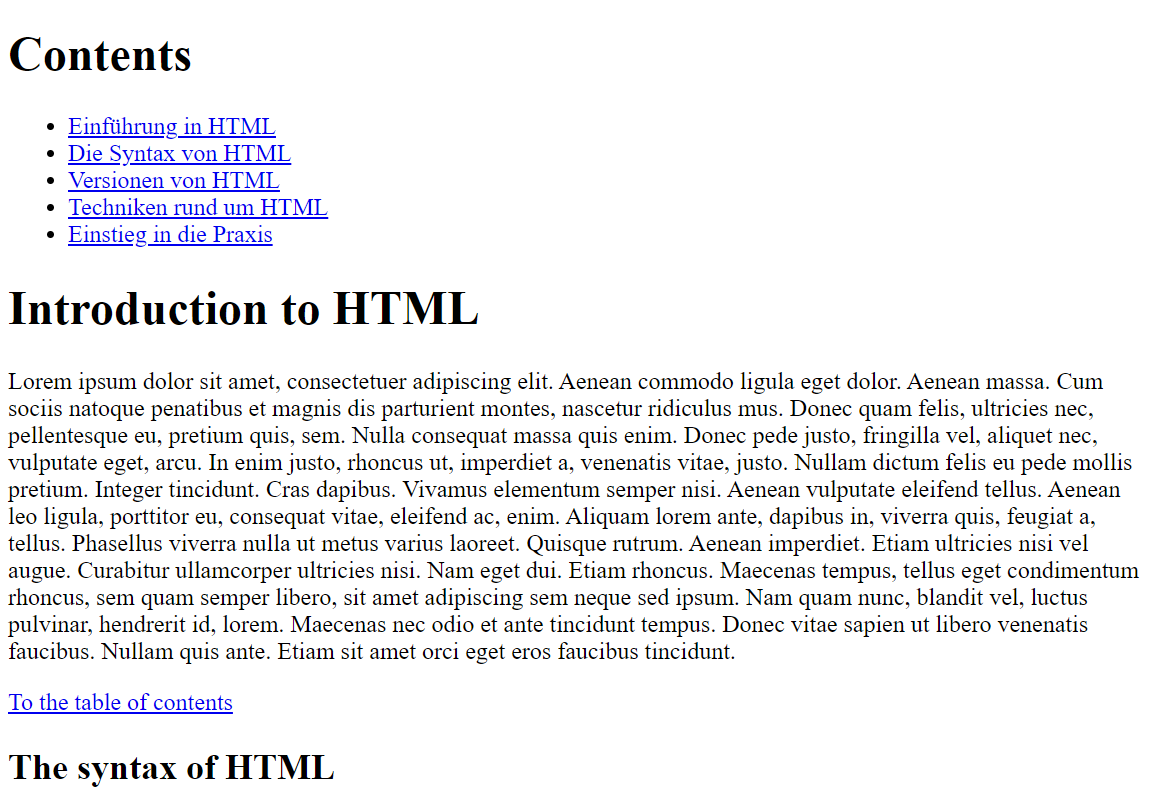
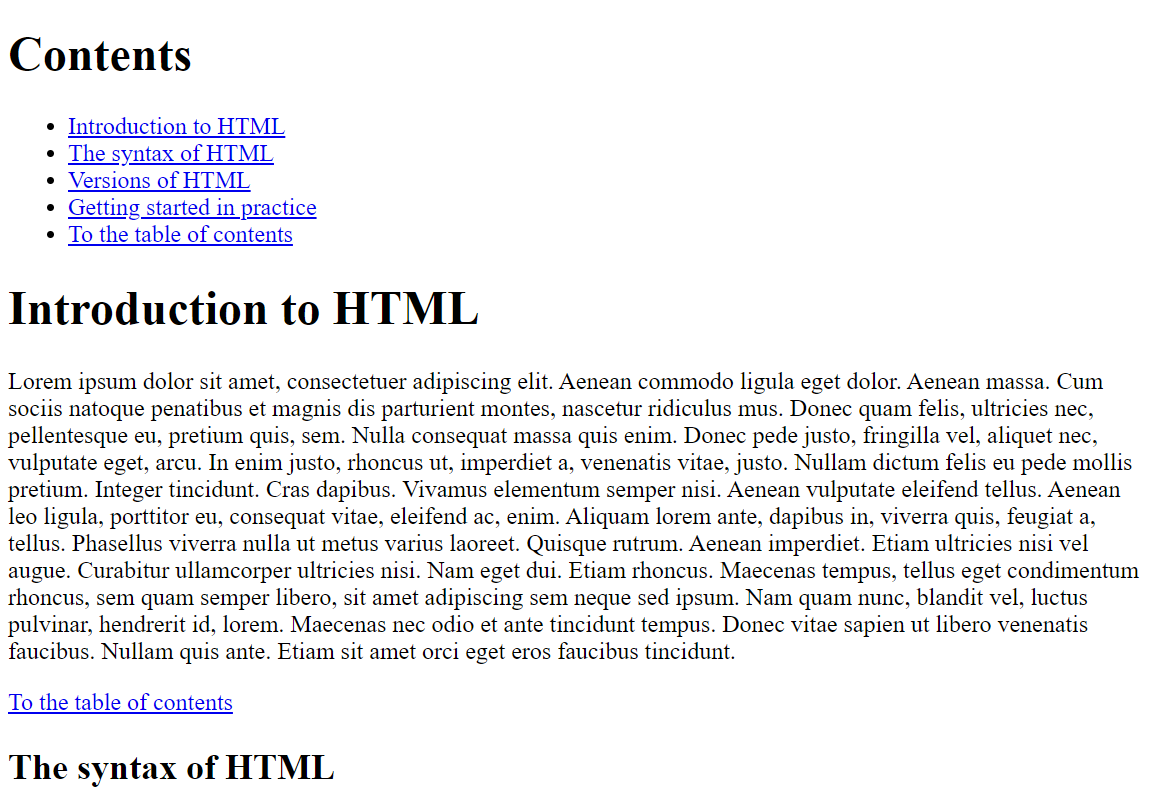
UD 5.2.

diff --git a/5_Tables_Hyperlinks/Part_11/index.html b/5_Tables_Hyperlinks/Part_11/index.html
@@ -7,11 +7,11 @@
   <body>
   <h1 id="top">Contents</h1>
   <ul>
-    <li><a href="#intro">Einführung in HTML</a></li>
-    <li><a href="#syntax">Die Syntax von HTML</a></li>
-    <li><a href="#versions">Versionen von HTML</a></li>
-    <li><a href="#technics">Techniken rund um HTML</a></li>
-    <li><a href="#practice">Einstieg in die Praxis</a></li>
+    <li><a href="#intro">Introduction to HTML</a></li>
+    <li><a href="#syntax">The syntax of HTML</a></li>
+    <li><a href="#versions">Versions of HTML</a></li>
+    <li><a href="#technics">Getting started in practice</a></li>
+    <li><a href="#practice">To the table of contents</a></li>
   </ul>
   <h1 id="intro">Introduction to HTML</h1>
   <p>Lorem ipsum dolor sit amet, consectetuer adipiscing elit. Aenean commodo ligula eget dolor. Aenean massa. Cum sociis natoque penatibus et magnis dis parturient montes, nascetur ridiculus mus. Donec quam felis, ultricies nec, pellentesque eu, pretium quis, sem. Nulla consequat massa quis enim. Donec pede justo, fringilla vel, aliquet nec, vulputate eget, arcu. In enim justo, rhoncus ut, imperdiet a, venenatis vitae, justo. Nullam dictum felis eu pede mollis pretium. Integer tincidunt. Cras dapibus. Vivamus elementum semper nisi. Aenean vulputate eleifend tellus. Aenean leo ligula, porttitor eu, consequat vitae, eleifend ac, enim. Aliquam lorem ante, dapibus in, viverra quis, feugiat a, tellus. Phasellus viverra nulla ut metus varius laoreet. Quisque rutrum. Aenean imperdiet. Etiam ultricies nisi vel augue. Curabitur ullamcorper ultricies nisi. Nam eget dui. Etiam rhoncus. Maecenas tempus, tellus eget condimentum rhoncus, sem quam semper libero, sit amet adipiscing sem neque sed ipsum. Nam quam nunc, blandit vel, luctus pulvinar, hendrerit id, lorem. Maecenas nec odio et ante tincidunt tempus. Donec vitae sapien ut libero venenatis faucibus. Nullam quis ante. Etiam sit amet orci eget eros faucibus tincidunt.</p>

diff --git a/README.md b/README.md
@@ -1812,14 +1812,6 @@ The complete explanations for each tag will be given in the next chapters, these
 
 * The HTML attributes for the \<a> element
 
-| attributes      | Explanation                                                              |
-| --------------- | ------------------------------------------------------------------------ |
-| `download`      | this offers the link target for download |
-| `href`          | this specifies the URL of the page to which the hyperlink will lead when activated |
-| `hreflang`      | here the language of the linked document can be specified, specifications are allowed in abbreviations e.g. **de** for Germany |
-| `media`         | this can be used to specify media for which the link target has been optimized, media types can be enumerated separated by commas or specify `all` for all media types |
-| `type`          | this can be used to tell the browser the MIME type (file format) the linked file belongs to |
-
 | attribute          | Explanation                                                              |
 | ------------------ | ------------------------------------------------------------------------ |
 | `rel`              | this determines the type of link, there are also certain attribute values for `rel`: bookmark, external, nofollow, noreferrer |
@@ -1828,25 +1820,17 @@ The complete explanations for each tag will be given in the next chapters, these
 | `rel="nofollow"`   | signals the search engines not to follow this link |
 | `rel="noreferrer"` | this instructs the visitor's web browser not to use a referrer address when clicking on the link, thus avoiding that the web server of the destination address receives information from where the visitor came from |
 
-| attribute          | Explanation                                                              |
-| ------------------ | ------------------------------------------------------------------------ |
-| `target`           | here you specify where the reference target is to be opened |
-| `target="_blank"`  | this will create a new tab when the link is clicked on  |
-| `target="_parent"` | is the parent window |
-| `target="_self"`   | indicates the current window |
-| `target="_top"`    | Specifies the top window level |
-
-* **target**
-	- with `target` a link target is opened in a new window or tab, if it gets the attribute value `_blank`
-	- The goal is that the visitor does not get lost on the main page, and returns there when the newly opened page has been read
-	- `_blank` is the most used attribute value of `target` further are `_self`, `_parent`, `_top`
      ```
-        <p>
-          As already reported, the
-          <a target="_blank" href="http://www.w3.org/">World Wide Web Consortium</a>
-          submitted a new recommendation for HTML, ...
-        </p>
-     ``` 
+      <a rel="nofollow" href="https://www.w3schools.com/tags/att_a_rel.asp">HTML <a> rel Attribute</a>
+     ```
+
+| attributes      | Explanation                                                              |
+| --------------- | ------------------------------------------------------------------------ |
+| `download`      | this offers the link target for download |
+| `href`          | this specifies the URL of the page to which the hyperlink will lead when activated |
+| `hreflang`      | here the language of the linked document can be specified, specifications are allowed in abbreviations e.g. **de** for Germany |
+| `media`         | this can be used to specify media for which the link target has been optimized, media types can be enumerated separated by commas or specify `all` for all media types |
+| `type`          | this can be used to tell the browser the MIME type (file format) the linked file belongs to |
 
 * **href=mailto:...**
   - there is the possibility to open an email address with a specific email application when clicking on the link
@@ -1859,7 +1843,7 @@ The complete explanations for each tag will be given in the next chapters, these
         <a href="mailto:example@email.com">Send Email</a>
       </footer>
      ```
-![Preview](5_Tables_Hyperlinks/Images/Preview_5_8_mark.png)
+![Preview](5_Tables_Hyperlinks/Images/Preview_5_8.PNG)
 
 * **links to other content types**
 	- if links are set to other types of documents not used on the web (e.g. Word, Excel, PDF), it depends on the web browser how it is displayed
@@ -1901,6 +1885,26 @@ The complete explanations for each tag will be given in the next chapters, these
       </body>
      ```
 ![Preview](5_Tables_Hyperlinks/Images/Preview_5_10.PNG)
+
+| attribute          | Explanation                                                              |
+| ------------------ | ------------------------------------------------------------------------ |
+| `target`           | here you specify where the reference target is to be opened |
+| `target="_blank"`  | this will create a new tab when the link is clicked on  |
+| `target="_parent"` | is the parent window |
+| `target="_self"`   | indicates the current window |
+| `target="_top"`    | Specifies the top window level |
+
+* **target**
+	- with `target` a link target is opened in a new window or tab, if it gets the attribute value `_blank`
+	- The goal is that the visitor does not get lost on the main page, and returns there when the newly opened page has been read
+	- `_blank` is the most used attribute value of `target` further are `_self`, `_parent`, `_top`
+     ```
+        <p>
+          As already reported, the
+          <a target="_blank" href="http://www.w3.org/">World Wide Web Consortium</a>
+          submitted a new recommendation for HTML, ...
+        </p>
+     ``` 
 
 * **links to specific parts of a web page**
 	- to get to a certain paragraph can be annoying on large web pages if you have to scroll too much
